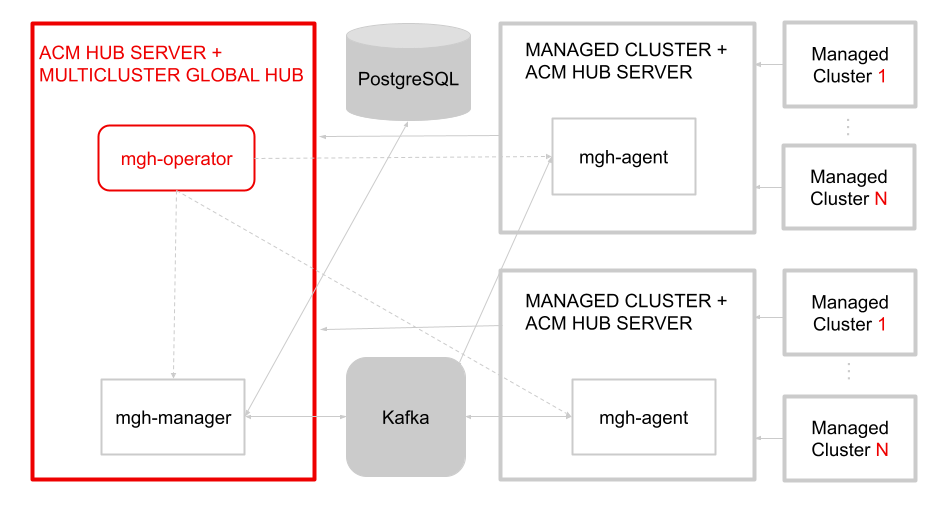
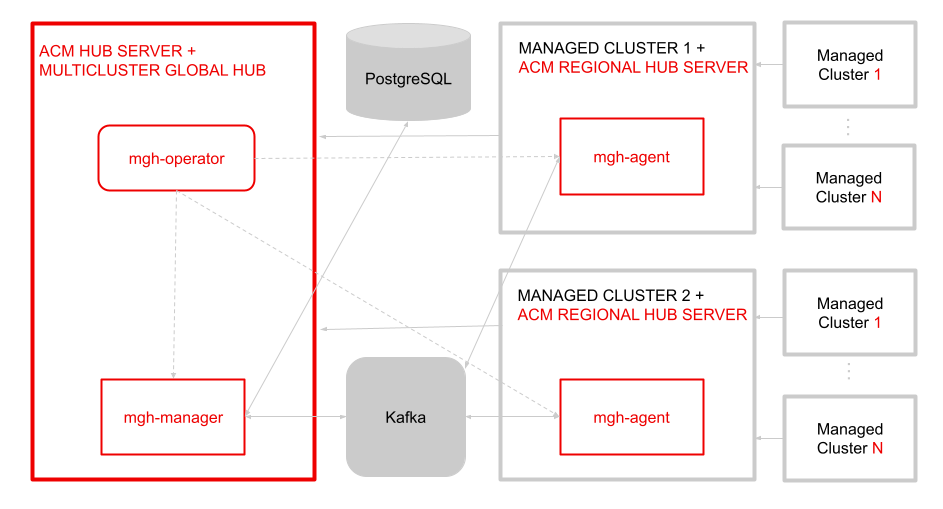
Update readme

diff --git a/README.md b/README.md
@@ -9,15 +9,15 @@ This document attempts to explain how the different components in multicluster g
 ![ArchitectureDiagram](doc/architecture/multicluster-global-hub-arch.png)
 
 ### Multicluster Global Hub Operator
-Operator for multicluster global hub. It is used to deploy all required components for multicluster management. The components include multicluster-global-hub-manager in the global hub cluster and multicluster-global-hub-agent in the hub cluster.
+Operator is for multicluster global hub. It is used to deploy all required components for multicluster management. The components include multicluster-global-hub-manager in the global hub cluster and multicluster-global-hub-agent in the regional hub clusters.
 
-The Operator also leverages the manifestwork to deploy the Advanced Cluster Management for Kubernetes in the managed cluster. So the managed cluster can be switched to a ACM Hub cluster.
+The Operator also leverages the manifestwork to deploy the Advanced Cluster Management for Kubernetes in the managed cluster. So the managed cluster is switched to a standard ACM Hub cluster (regional hub cluster).
 
 ### Multicluster Global Hub Manager
-The manager is used to persist the data into the postgreSQL. The data is from Kafka transport. The manager is also used to post the data to Kafka transport so that it can be synced to the hub cluster.
+The manager is used to persist the data into the postgreSQL. The data is from Kafka transport. The manager is also used to post the data to Kafka transport so that it can be synced to the regional hub clusters.
 
 ### Multicluster Global Hub Agent
-The agent is running in the hub cluster. It is responsible to sync-up the data from the hub cluster to the global cluster hub via Kafka transport. For instance, sync-up the managed clusters' info from the hub cluster to the global hub cluster and sync-up the policy or application from the global hub cluster to the hub cluster.
+The agent is running in the regional hub clusters. It is responsible to sync-up the data between the global cluster hub and the regional hub clusters. For instance, sync-up the managed clusters' info from the regional hub clusters to the global hub cluster and sync-up the policy or application from the global hub cluster to the regional hub clusters.
 
 ## Quick Start Guide
 
@@ -25,38 +25,44 @@ The agent is running in the hub cluster. It is responsible to sync-up the data f
 
 1. Connect to a Kubernetes cluster with `kubectl`
 2. ACM or OCM is installed on the Kubernetes cluster
-3. PostgreSQL is installed and a database is created for hub-of-hubs, also a secret with name `postgresql-secret` that contains the credential should be created in `open-cluster-management` namespace. The credential format like `postgres://<user>:<password>@<host>:<port>/<database>`:
+3. PostgreSQL is installed and a database is created for the multicluster global hub. A secret `storage-secret` contains the credential is created in `open-cluster-management` namespace. The credential format like `postgres://<user>:<password>@<host>:<port>/<database>`:
 
 ```bash
-kubectl create secret generic postgresql-secret -n "open-cluster-management" \
+kubectl create secret generic storage-secret -n "open-cluster-management" \
     --from-literal=database_uri=<postgresql-uri> 
 ```
-> You can run this sample script `./operator/config/samples/postgres/deploy_postgres.sh` to install postgres in `hoh-postgres` namespace and create the secret `postgresql-secret` in namespace `open-cluster-management` automatically. 
+> You can run this sample script `./operator/config/samples/postgres/deploy_postgres.sh` to install postgres in `hoh-postgres` namespace and create the secret `storage-secret` in namespace `open-cluster-management` automatically. 
 
-4. Kafka is installed and two topics `spec` and `status` are created, also a secret with name `kafka-secret` that contains the kafka access information should be created in `open-cluster-management` namespace:
+4. Kafka is installed and two topics `spec` and `status` are created, also a secret with name `transport-secret` that contains the kafka access information should be created in `open-cluster-management` namespace:
 
 ```bash
-kubectl create secret generic kafka-secret -n "open-cluster-management" \
+kubectl create secret generic transport-secret -n "open-cluster-management" \
     --from-literal=bootstrap_server=<kafka-bootstrap-server-address> \
     --from-literal=CA=<CA-for-kafka-server>
 ```
-> As above, You can run this sample script `./operator/config/samples/kafka/deploy_kafka.sh` to install kafka in kafka namespace and create the secret `kafka-secret` in namespace `open-cluster-management` automatically. 
+> As above, You can run this sample script `./operator/config/samples/kafka/deploy_kafka.sh` to install kafka in kafka namespace and create the secret `transport-secret` in namespace `open-cluster-management` automatically. 
 
 ### Run the operator in the cluster
 
-1. Build and push your image to the location specified by `IMG`:
+1. Check out the multicluster-global-hub repository
+```bash
+git clone git@github.com:stolostron/multicluster-global-hub.git
+cd multicluster-global-hub/operator
+```
+
+2. Build and push your image to the location specified by `IMG`:
 
 ```bash
 make docker-build docker-push IMG=<some-registry>/multicluster-global-hub-operator:<tag>
 ```
 
-2. Deploy the controller to the cluster with the image specified by `IMG`:
+3. Deploy the controller to the cluster with the image specified by `IMG`:
 
 ```bash
 make deploy IMG=<some-registry>/multicluster-global-hub-operator:<tag>
 ```
 
-3. Install Instances of Custom Resource:
+4. Install instance of custom resource:
 
 ```bash
 kubectl apply -k config/samples/
